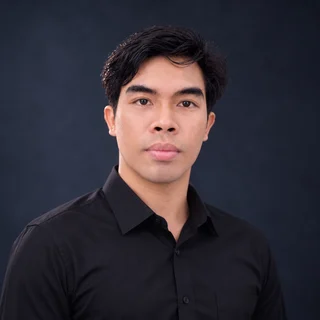
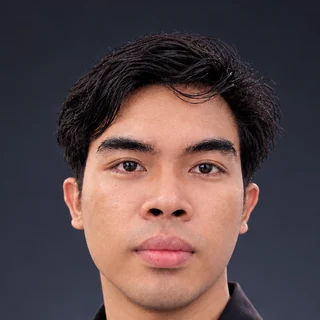
Sync from chalidade/saling-jaga@2a0fc5b (founder photo, Development Partner)

diff --git a/tentang/index.html b/tentang/index.html
@@ -71,15 +71,27 @@
   </div>
 </div></section>
 
-<section class="sec"><div class="wrap">
+<section class="sec" id="partner"><div class="wrap">
+  <div class="fcard rv">
+    <div class="fphoto"><img src="/brand/partner-william.webp" alt="William Afif, Development Partner Saling Jaga" width="720" height="900" loading="lazy"></div>
+    <div class="fbody">
+      <p class="eyebrow">Development Partner</p>
+      <h2>William Afif</h2>
+      <p class="frole">Senior Software Engineer · 6+ tahun pengalaman</p>
+      <p>William adalah backend developer yang sehari-hari bekerja dengan PHP, JavaScript, dan SQL. Ia membangun RESTful API, menyambungkan layanan pihak ketiga seperti payment gateway, dan mengoptimalkan query di MySQL dan MongoDB.</p><p>Ia sudah mengerjakan e-commerce, sistem manajemen konten, dan aplikasi web kustom, dan terbiasa bekerja dalam tim dengan metode Agile.</p>
+    </div>
+  </div>
+</div></section>
+
+<section class="sec soft"><div class="wrap">
   <div class="head rv"><p class="eyebrow">Prinsip</p><h2>Tiga hal yang tidak kami tawar.</h2></div>
   <div class="ledger l3 rv"><div><span class="mk"><svg aria-hidden="true"><use href="#heart"/></svg></span><h3>Gratis untuk warga</h3><p>Keselamatan tidak boleh bergantung pada kemampuan membayar. Aplikasi untuk warga gratis dan tanpa iklan.</p></div><div><span class="mk"><svg aria-hidden="true"><use href="#server"/></svg></span><h3>Tanpa server, tanpa akun</h3><p>Kami tidak menyimpan pesan, lokasi, atau daftar anggota. Datanya ada di HP kalian sendiri.</p></div><div><span class="mk"><svg aria-hidden="true"><use href="#bulb"/></svg></span><h3>Jujur soal batasan</h3><p>Kami menulis apa adanya soal jangkauan dan apa yang belum jadi, karena orang mengandalkan ini saat genting.</p></div></div>
 </div></section>
-<section class="sec soft"><div class="wrap">
+<section class="sec"><div class="wrap">
   <div class="head rv"><p class="eyebrow">Posisi sekarang</p><h2>Yang sudah jadi dan yang sedang dikerjakan.</h2><p>Keadaan per November 2026.</p></div>
   <div class="tblwrap rv"><table class="tbl"><tbody><tr><td>Android</td><td>Bisa dipasang hari ini. Sedang uji tertutup di Google Play, dan tersedia juga sebagai APK.</td></tr><tr><td>iPhone</td><td>Aplikasinya sudah jadi dan bisa satu grup dengan Android. Menunggu uji coba TestFlight. Sementara itu iPhone ikut lewat browser.</td></tr><tr><td>Laptop</td><td>Ikut grup lewat browser, dibuka dari satu HP Android yang memakai Saling Jaga.</td></tr><tr><td>LoRa</td><td>Gerbang LoRa untuk alat Meshtastic tersedia di Edisi Tim.</td></tr><tr><td>Perangkat</td><td>sTag sudah punya rancangan dan firmware contoh. Perangkat lain masih berupa konsep.</td></tr></tbody></table></div>
 </div></section>
-<section class="sec" id="media"><div class="wrap">
+<section class="sec soft" id="media"><div class="wrap">
   <div class="head rv"><p class="eyebrow">Media</p><h2>Logo untuk liputan dan presentasi.</h2><p>Silakan dipakai untuk memberitakan atau memperkenalkan Saling Jaga. Nama dan logo Saling Jaga adalah merek kami, mohon tidak diubah.</p></div>
   <div class="kit rv"><a href="/brand/mark.png" download><span class="pv"><img src="/brand/mark.png" alt="" loading="lazy"></span><span>Lambang<small>PNG</small></span></a><a href="/brand/logo.png" download><span class="pv"><img src="/brand/logo.png" alt="" loading="lazy"></span><span>Logo<small>PNG</small></span></a><a href="/brand/logo-wordmark.png" download><span class="pv"><img src="/brand/logo-wordmark.png" alt="" loading="lazy"></span><span>Logo dan nama<small>PNG</small></span></a><a href="/brand/icon.png" download><span class="pv"><img src="/brand/icon.png" alt="" loading="lazy"></span><span>Ikon aplikasi<small>PNG</small></span></a></div>
 </div></section>

diff --git a/en/about/index.html b/en/about/index.html
@@ -71,15 +71,27 @@
   </div>
 </div></section>
 
-<section class="sec"><div class="wrap">
+<section class="sec" id="partner"><div class="wrap">
+  <div class="fcard rv">
+    <div class="fphoto"><img src="/brand/partner-william.webp" alt="William Afif, Development Partner of Saling Jaga" width="720" height="900" loading="lazy"></div>
+    <div class="fbody">
+      <p class="eyebrow">Development Partner</p>
+      <h2>William Afif</h2>
+      <p class="frole">Senior Software Engineer · 6+ years of experience</p>
+      <p>William is a backend developer who works day to day in PHP, JavaScript and SQL. He builds RESTful APIs, integrates third-party services such as payment gateways, and tunes queries on MySQL and MongoDB.</p><p>He has worked on e-commerce sites, content management systems and custom web applications, and is used to working in teams with Agile methods.</p>
+    </div>
+  </div>
+</div></section>
+
+<section class="sec soft"><div class="wrap">
   <div class="head rv"><p class="eyebrow">Principles</p><h2>Three things we will not trade away.</h2></div>
   <div class="ledger l3 rv"><div><span class="mk"><svg aria-hidden="true"><use href="#heart"/></svg></span><h3>Free for the public</h3><p>Safety should not depend on the ability to pay. The app for the public is free and has no ads.</p></div><div><span class="mk"><svg aria-hidden="true"><use href="#server"/></svg></span><h3>No server, no account</h3><p>We do not store messages, locations or member lists. The data lives on your own phones.</p></div><div><span class="mk"><svg aria-hidden="true"><use href="#bulb"/></svg></span><h3>Honest about limits</h3><p>We write plainly about range and about what is not finished, because people rely on this in a crisis.</p></div></div>
 </div></section>
-<section class="sec soft"><div class="wrap">
+<section class="sec"><div class="wrap">
   <div class="head rv"><p class="eyebrow">Where we are</p><h2>What is done and what is in progress.</h2><p>As of November 2026.</p></div>
   <div class="tblwrap rv"><table class="tbl"><tbody><tr><td>Android</td><td>Can be installed today. In closed testing on Google Play, and also available as an APK.</td></tr><tr><td>iPhone</td><td>The app is built and can share a group with Android. Waiting for TestFlight testing. Meanwhile iPhones join through a browser.</td></tr><tr><td>Laptop</td><td>Joins a group through a browser, opened from an Android phone running Saling Jaga.</td></tr><tr><td>LoRa</td><td>A LoRa gateway for Meshtastic devices is available in Team Edition.</td></tr><tr><td>Devices</td><td>sTag has a design and sample firmware. The other devices are still concepts.</td></tr></tbody></table></div>
 </div></section>
-<section class="sec" id="media"><div class="wrap">
+<section class="sec soft" id="media"><div class="wrap">
   <div class="head rv"><p class="eyebrow">Media</p><h2>Logos for coverage and presentations.</h2><p>Feel free to use these to report on or introduce Saling Jaga. The Saling Jaga name and logo are our trademarks, so please do not alter them.</p></div>
   <div class="kit rv"><a href="/brand/mark.png" download><span class="pv"><img src="/brand/mark.png" alt="" loading="lazy"></span><span>Mark<small>PNG</small></span></a><a href="/brand/logo.png" download><span class="pv"><img src="/brand/logo.png" alt="" loading="lazy"></span><span>Logo<small>PNG</small></span></a><a href="/brand/logo-wordmark.png" download><span class="pv"><img src="/brand/logo-wordmark.png" alt="" loading="lazy"></span><span>Logo and name<small>PNG</small></span></a><a href="/brand/icon.png" download><span class="pv"><img src="/brand/icon.png" alt="" loading="lazy"></span><span>App icon<small>PNG</small></span></a></div>
 </div></section>
